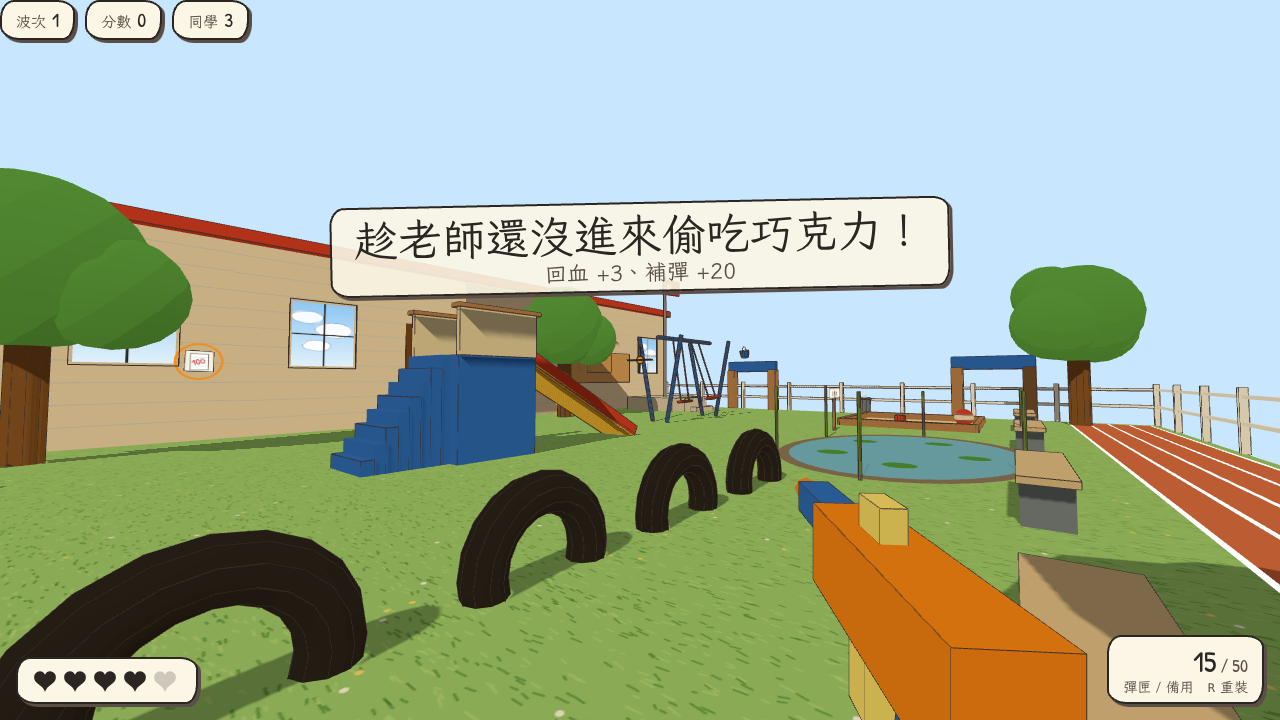
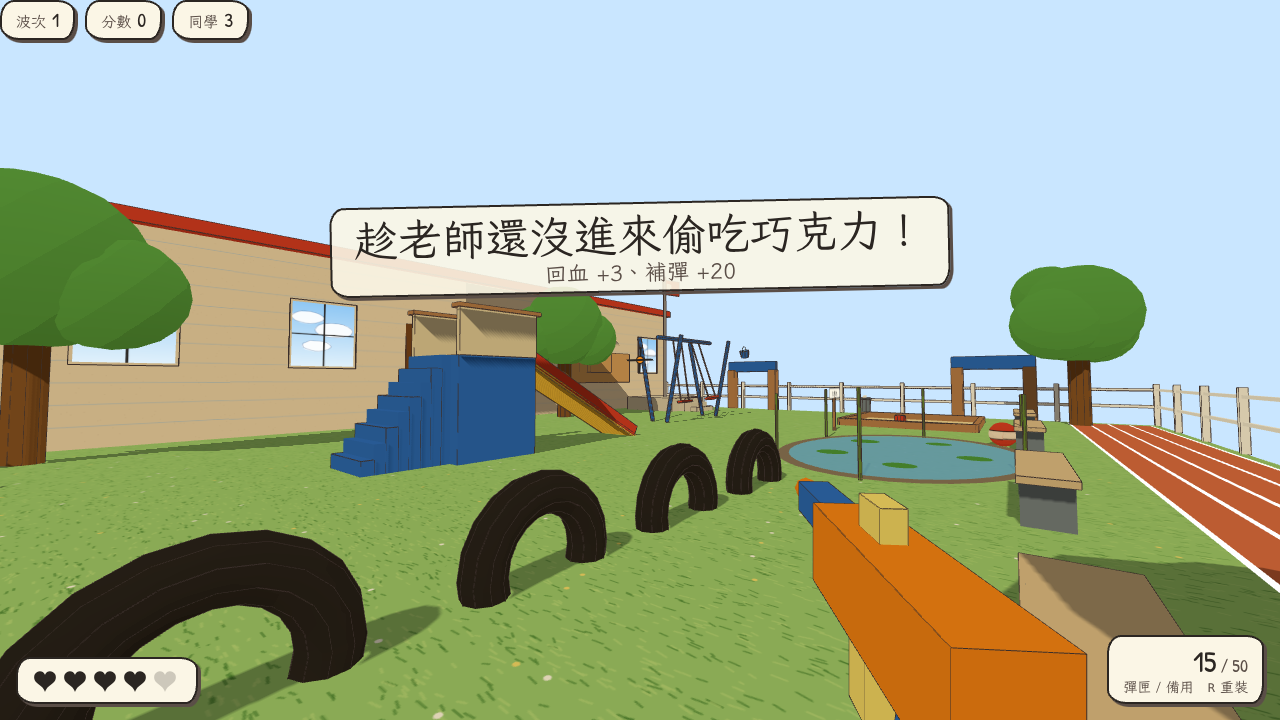
牛奶與彈盒只放 1.2 m 以下的桌面；自然教室掛點移開抽氣櫃；新增全圖拿取／命中檢查
操場的樹、鞦韆架、溜滑梯高台原本也算桌子，牛奶會出現在搆不到的高處。
tools/reach-test.cjs 對每張桌子實際走過去、對每個掛點實際發彈驗證。

Claude-Session: https://claude.ai/code/session_01JhYTsN25smVCe6zoC6MjkF

diff --git a/src/game.js b/src/game.js
@@ -563,8 +563,8 @@ export class Game {
     // a box lands near whoever is running dry (in co-op that is often the partner, not the host)
     const who = nearPlayer ? this.players().slice().sort((x, y) => (x.ammo + x.reserve) - (y.ammo + y.reserve))[0] : this.player;
     const pp = who.pos;
-    const ok = this.world.desks.filter(d => { const dd = Math.hypot(d.x - pp.x, d.z - pp.z); return Math.abs((d.floor || 0) - (pp.y || 0)) < 0.5 && (nearPlayer ? dd > 1.2 && dd < CFG.supply.near : dd > 2) && !this.milks.some(m => m.desk === d); });
-    const desk = pick(ok.length ? ok : this.world.desks);
+    const ok = this.tables().filter(d => { const dd = Math.hypot(d.x - pp.x, d.z - pp.z); return Math.abs((d.floor || 0) - (pp.y || 0)) < 0.5 && (nearPlayer ? dd > 1.2 && dd < CFG.supply.near : dd > 2) && !this.milks.some(m => m.desk === d); });
+    const desk = pick(ok.length ? ok : this.tables());
     const mk = this.makeMilk(desk.x + rand(-0.12, 0.12), (desk.floor || 0) + (desk.h || DESK.h) + 0.1, desk.z + rand(-0.05, 0.05), 'ammo');
     mk.desk = desk; mk.id = this.nextId(); mk.kind = 'ammo'; this.milks.push(mk);
     Audio.itemSpawn(); this.message('有人放了一盒泡棉彈在課桌上', `走過去撿 +${this.supplyAmount()} 發`, 2);
@@ -656,11 +656,13 @@ export class Game {
     }
   }
   // ---------- milk (healing) ----------
+  // tables a carton or a box can land on: anything higher than 1.2 m (a tree, the swing frame, the slide tower) is out of reach from the floor
+  tables() { return this.world.desks.filter(d => (d.h || DESK.h) <= 1.2); }
   spawnMilk() {
     if (this.milks.length >= CFG.milk.max) return;
     const pp = this.player.pos;
-    const far = this.world.desks.filter(d => Math.abs((d.floor || 0) - (pp.y || 0)) < 0.5 && Math.hypot(d.x - pp.x, d.z - pp.z) > CFG.milk.minDistFromPlayer && Math.hypot(d.x - pp.x, d.z - pp.z) < 9 && !this.milks.some(m => m.desk === d));
-    const desk = pick(far.length ? far : this.world.desks);
+    const far = this.tables().filter(d => Math.abs((d.floor || 0) - (pp.y || 0)) < 0.5 && Math.hypot(d.x - pp.x, d.z - pp.z) > CFG.milk.minDistFromPlayer && Math.hypot(d.x - pp.x, d.z - pp.z) < 9 && !this.milks.some(m => m.desk === d));
+    const desk = pick(far.length ? far : this.tables());
     const mk = this.makeMilk(desk.x + rand(-0.12, 0.12), (desk.floor || 0) + (desk.h || DESK.h) + 0.1, desk.z + rand(-0.05, 0.05));
     mk.desk = desk; mk.id = this.nextId(); this.milks.push(mk);
     Audio.milkSpawn();

diff --git a/src/layouts.js b/src/layouts.js
@@ -46,7 +46,7 @@ function lab() {
     start: { x: -6.0, z: 4.1, yaw: -0.55 }, front: -3.0, board: { w: 6.0, h: 1.5, style: 'lab' },
     desks, furniture, props: [{ kind: 'trash', x: -3.0, z: -4.4 }, { kind: 'trash', x: 0.2, z: 4.0 }, { kind: 'bucket', door: 0 }],
     mounts: [
-      { x: -3.6, y: 2.1, z: -4.96, ry: 0 }, { x: 3.8, y: 1.4, z: -4.96, ry: 0 }, { x: 4.6, y: 2.2, z: -4.96, ry: 0 },
+      { x: -3.6, y: 2.1, z: -4.96, ry: 0 }, { x: 3.6, y: 1.4, z: -4.96, ry: 0 }, { x: 2.7, y: 2.3, z: -4.96, ry: 0 }, // both clear of the fume hood (x 3.95..5.25)
       { x: -0.8, y: 1.9, z: 4.96, ry: Math.PI }, { x: 0.6, y: 2.3, z: 4.96, ry: Math.PI },
       { x: -6.96, y: 2.8, z: -2, ry: Math.PI / 2 }, { x: -6.96, y: 2.8, z: 2, ry: Math.PI / 2 },
       { x: 6.96, y: 1.8, z: 0, ry: -Math.PI / 2 }, { x: 6.96, y: 2.4, z: 2.0, ry: -Math.PI / 2 },

diff --git a/DESIGN.md b/DESIGN.md
@@ -271,6 +271,11 @@
 | 貼紙獎勵 | 移動速度 1.6 倍 | 10 |
 | 教室時鐘 | 全教室慢動作 0.35 倍，只有你是正常速度 | 5 |
 
+### 4.6a 牛奶一定喝得到、牆上的物品一定打得到（全圖檢查）
+- `tools/reach-test.cjs` 對五張地圖做兩件事：(1) 每一張牛奶或泡棉彈盒可能出現的桌子，用碰撞與導航實際走過去，找得到一個站得住、也在拿取距離內的點才算過；(2) 每一個牆上掛點，從 2.5 到 6 m 外的可走格子真的發一支泡棉彈過去，物品要被打掉才算過。
+- 找到的問題：操場的樹、鞦韆架、溜滑梯高台也被當成「桌子」，牛奶會出現在 2.5 m 高的樹頂，地面的人搆不到（拿取判定是高低差 1.6 m 內）；自然教室有一個掛點藏在抽氣櫃後上方，只能從 4.6 m 外以擦過櫃頂的角度看到，實際的彈道會先撞到櫃子。
+- 修法：牛奶與彈盒只放在 1.2 m 以下的桌面（`Game.tables()`），操場剩輪胎與長椅共 8 處；抽氣櫃旁的掛點移到櫃子左邊。修後五張地圖 103 張桌子全部有站位，45 個掛點每個都一槍打中。
+
 ### 4.8 瞄準與彈道
 - 泡棉彈的起點在眼睛前方 30 cm、偏右 10 cm、偏下 6 cm（畫面上的槍口只是裝飾）。原本從畫面右下的槍口（偏右 28 cm、偏下 22 cm）射出：蹲在課桌後面時眼睛在 0.62 m、槍口只剩 0.40 m，準心看得到桌子上方探頭的同學，彈道卻從桌面下方出發、撞上桌緣。這就是「畫面看得到卻打不到」的原因，不是桌子的碰撞範圍太大（課桌碰撞箱就是桌面大小 0.62×0.46、高 0.72）。
 - 彈道收斂到準心指向的落點：沿視線射線找到第一個碰撞物，**同學、老師也算**（原本只算家具，準心停在同學身上時落點會跑到同學後面的牆，彈道在中途就比視線低十幾公分）。
